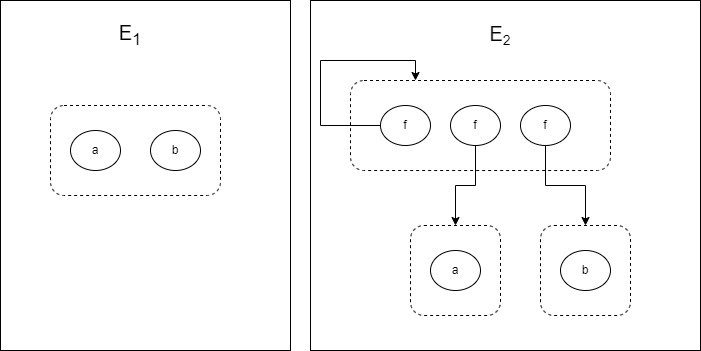
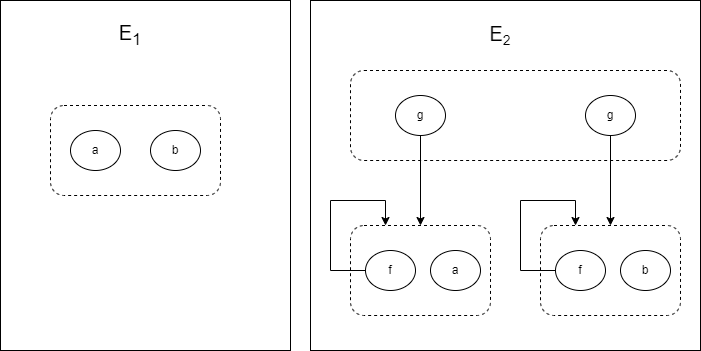
Deploying to gh-pages from @ oflatt/portfolio@39786355b55469b0a09077f88c8cb06c4ca9a6f2 🚀

diff --git a/egraph-union-intersect.html b/egraph-union-intersect.html
@@ -77,9 +77,9 @@ Do this by adding the two terms to <span class="texMathInline">E_3</span> and un
 from each e-graph.</p><h3>4<tt>&nbsp;</tt><a name="(part.__.E-.Graph_.Intersection_)"></a> E-Graph Intersection </h3><p>Ideally, we would want the intersection of two e-graphs to represent all equalities
 that are true in both e-graphs.
 Unfortunately, there&rsquo;s no way to guarantee this with a finite e-graph, as shown in <a href="https://link.springer.com/chapter/10.1007/978-3-540-30538-5_26">this paper</a>.
-Take for example <span class="texMathInline"> E_1 = \{ a = b\}</span> and <span class="texMathInline">E_2 = \{f(a) = f(b), f(f(a)) = f(a)\}</span>.
-The e-graphs look like this:</p><p><img src="egraph-intersect.png" alt="" width="701" height="351"/></p><p>The intersection of <span class="texMathInline">E_1</span> and <span class="texMathInline">E_2</span> is the infinite set <span class="texMathInline">E_3 = \{ f^n(a) = f^n(b) | n \geq 1\}</span>. However, this isn&rsquo;t finitely representable in the e-graph.
-If we tried, we would end up with terms <span class="texMathInline">f(a) = f(b)</span>, <span class="texMathInline">f(f(a)) = f(f(b))</span>, and so on in the egraph.</p><p>Since computing the intersection is infeasible, the <a href="https://link.springer.com/chapter/10.1007/978-3-540-30538-5_26">e-graph intersection paper mentioned above</a> calculates
+Take for example <span class="texMathInline"> E_1 = \{ a = b \}</span> and <span class="texMathInline">E_2 = \{f(a) = a, f(b) = b, g(a) = g(b)\}</span>.
+The e-graphs look like this:</p><p><img src="egraph-intersect.png" alt="" width="701" height="351"/></p><p>The intersection of <span class="texMathInline">E_1</span> and <span class="texMathInline">E_2</span> is the infinite set <span class="texMathInline">E_3 = \{ g(f^n(a)) = g(f^n(b)) | n \geq 1\}</span>. However, this isn&rsquo;t finitely representable in the e-graph because it can no longer rely on the cycle <span class="texMathInline">f(a) = a</span>.
+If we tried, we would end up with terms <span class="texMathInline">f(f(a)) = g(f(b))</span>, <span class="texMathInline">g(f(f(a))) = g(f(f(b)))</span>, and so on in the egraph.</p><p>Since computing the intersection is infeasible, the <a href="https://link.springer.com/chapter/10.1007/978-3-540-30538-5_26">e-graph intersection paper mentioned above</a> calculates
 it for a set of important terms <span class="texMathInline">I</span>.
 The intersection can be calculated simply by checking every possible pair of equalities between terms in <span class="texMathInline">I</span>.
 In fact, the optimal algorithm for computing the intersection is still quadratic in the size of <span class="texMathInline">I</span></p><p>Instead of doing all pairs in a set <span class="texMathInline">I</span>, you can perserve a set of particular equalities between terms instead.
